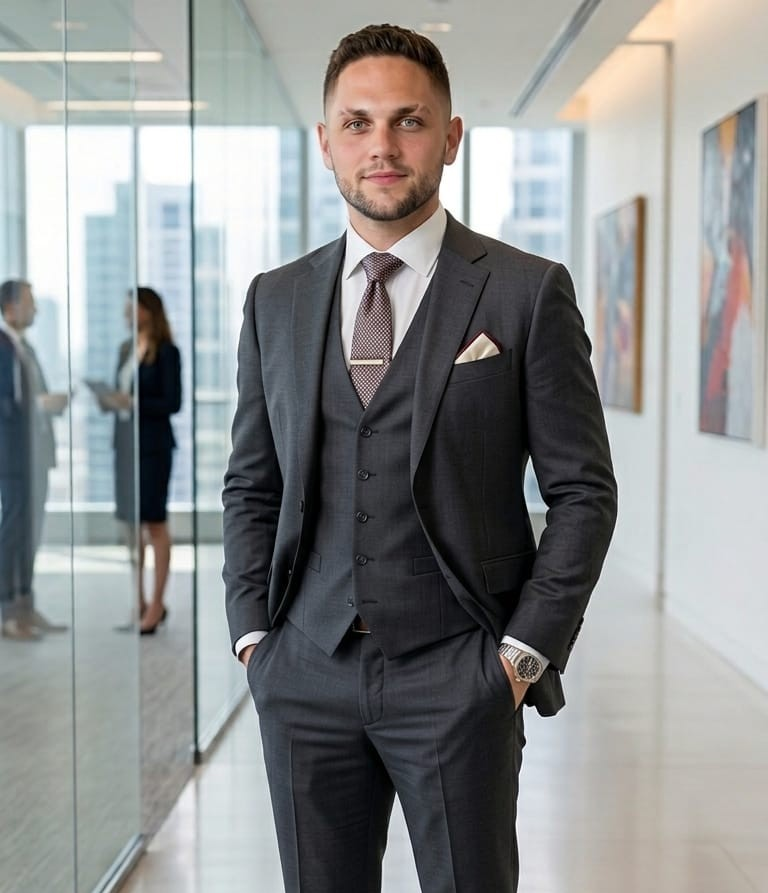
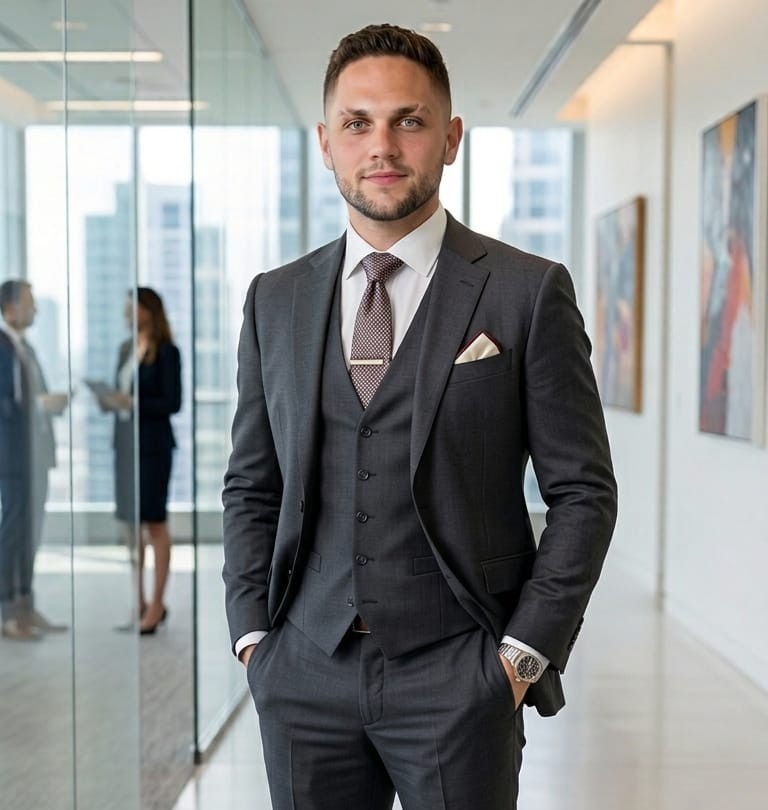
feat: update team member roles and bios, remove outdated images
- Added Marcelo as a new team member with updated role and bio.
- Changed Leonardo's role from Frontend Developer to Backend & Banco de Dados with a revised bio.
- Updated Henrique's bio to reflect his contributions more accurately.
- Removed outdated images for Marcelo, Leonardo, and Henrique from the public directory.

diff --git a/components/landing/team/team-data.ts b/components/landing/team/team-data.ts
@@ -10,27 +10,27 @@ import type { TeamMember } from './types'
  */
 export const teamMembers: TeamMember[] = [
   {
+    id: 'marcelo',
+    name: 'Marcelo',
+    role: 'Documentação & Análise de Projeto',
+    badge: 'Core Team',
+    bio: 'Dá forma e credibilidade ao TerritoryRun por trás do código. Estrutura a documentação técnica do repositório, conduz análises de arquitetura e fluxos, consolida projeções de negócio e assegura rastreabilidade entre produto, segurança e entrega.',
+    image: marceloPhoto,
+  },
+  {
     id: 'henrique',
     name: 'Henrique',
     role: 'Full Stack Developer',
     badge: 'Core Team',
-    bio: 'Desenvolve a arquitetura do produto, integrações e experiências que conectam mapa, dados e performance em tempo real.',
+    bio: 'Impulsiona o produto de ponta a ponta no TerritoryRun. Desenvolve a experiência web — landing, PWA, mapa com GPS, autenticação e gamificação — conectando interface, APIs e performance para transformar cada corrida em conquista territorial.',
     image: henriquePhoto,
   },
   {
     id: 'leonardo',
     name: 'Leonardo',
-    role: 'Frontend Developer',
+    role: 'Backend & Banco de Dados',
     badge: 'Core Team',
-    bio: 'Responsável pela interface, responsividade e microinterações que tornam o TerritoryRun rápido e envolvente no dia a dia.',
+    bio: 'Sustenta a espinha dorsal de dados do TerritoryRun. Modela o Firestore, define regras e transações críticas e implementa APIs e integrações que garantem territórios, corridas, ranking e autenticação com consistência e segurança.',
     image: leonardoPhoto,
-  },
-  {
-    id: 'marcelo',
-    name: 'Marcelo',
-    role: 'Backend Engineer',
-    badge: 'Core Team',
-    bio: 'Atua na camada de serviços, regras de negócio e confiabilidade dos fluxos críticos de território e autenticação.',
-    image: marceloPhoto,
   },
 ]
